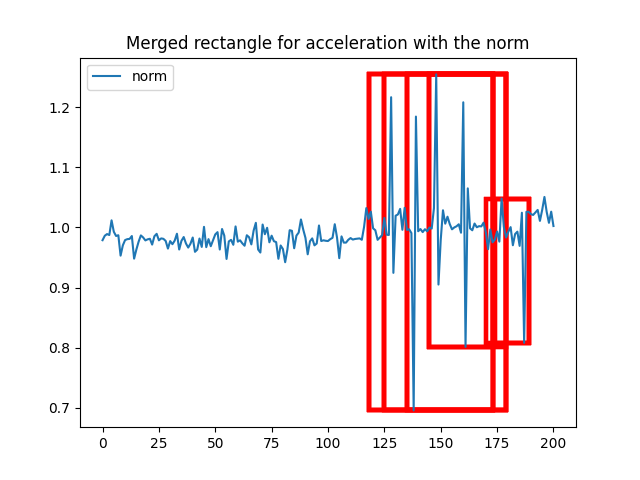
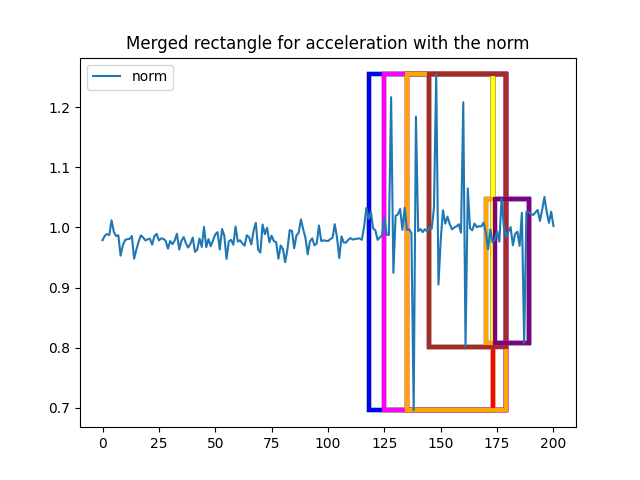
added colors for better visualization on extraction

Changed region(s): [[0.5625, 0.125, 0.8438, 0.875]]

diff --git a/signalUtils.py b/signalUtils.py
@@ -3,6 +3,7 @@ from math import sqrt
 import mathsUtils as MATH
 import matplotlib.pyplot as plt
 from matplotlib.patches import Rectangle
+import random
 
 def all_calculations(downsampled_x_accel, downsampled_y_accel, downsampled_z_accel, downsampled_timestamp, sigma, window_size, envelopp_multiplier, threshold_multiplier):
     # Normalise the acceleration data
@@ -85,13 +86,14 @@ def rectangle_extraction(x_coordinates, y_coordinates, z_coordinates, x_accel, y
         plt.plot(y_accel, label="y")
         plt.plot(z_accel, label="z")
 
-
+        colorList = ["blue", "red", "green", "cyan", "magenta", "yellow", "orange", "purple", "brown"]
         for i in range(0, len(new_start)):
+                rectangleColor = random.choice(colorList)
                 norm_gaussian_part = x_accel[int(new_start[i]):int(new_end[i])]
                 min_y = min(norm_gaussian_part)
                 max_y = max(norm_gaussian_part)
                 
-                rect = Rectangle((new_start[i], min_y), new_end[i] - new_start[i], max_y - min_y, fill=False, edgecolor="blue", linewidth=3)
+                rect = Rectangle((new_start[i], min_y), new_end[i] - new_start[i], max_y - min_y, fill=False, edgecolor=rectangleColor, linewidth=3)
                 ax.add_patch(rect)
         plt.legend()
         plt.title(f"Merged rectangle for {type} with x, y and z channels")
@@ -106,11 +108,12 @@ def rectangle_extraction(x_coordinates, y_coordinates, z_coordinates, x_accel, y
 
 
         for i in range(0, len(new_start)):
+                rectangleColor = random.choice(colorList)
                 norm_gaussian_part = norm[int(new_start[i]):int(new_end[i])]
                 min_y = min(norm_gaussian_part)
                 max_y = max(norm_gaussian_part)
                 
-                rect = Rectangle((new_start[i], min_y), new_end[i] - new_start[i], max_y - min_y, fill=False, edgecolor="red", linewidth=3)
+                rect = Rectangle((new_start[i], min_y), new_end[i] - new_start[i], max_y - min_y, fill=False, edgecolor=rectangleColor, linewidth=3)
                 ax.add_patch(rect)
         plt.legend()
         plt.title(f"Merged rectangle for {type} with the norm")
